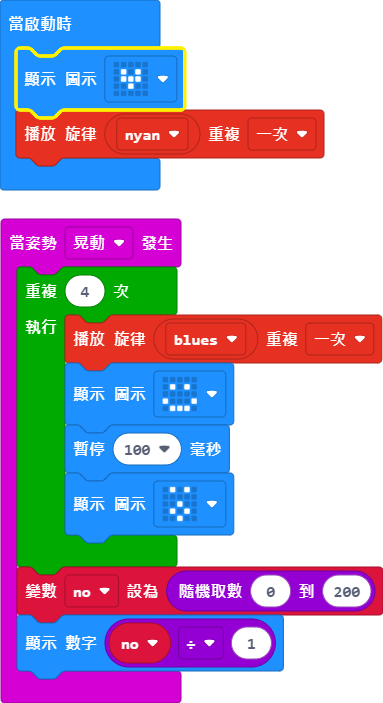
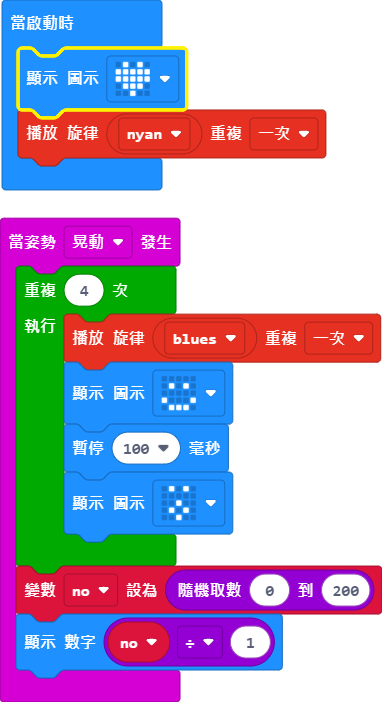
更新 main.blocks, main.ts

diff --git a/main.ts b/main.ts
@@ -9,5 +9,5 @@ input.onGesture(Gesture.Shake, function () {
     basic.showNumber(no / 1)
 })
 let no = 0
-basic.showIcon(IconNames.SmallHeart)
+basic.showIcon(IconNames.Heart)
 music.startMelody(music.builtInMelody(Melodies.Nyan), MelodyOptions.Once)
